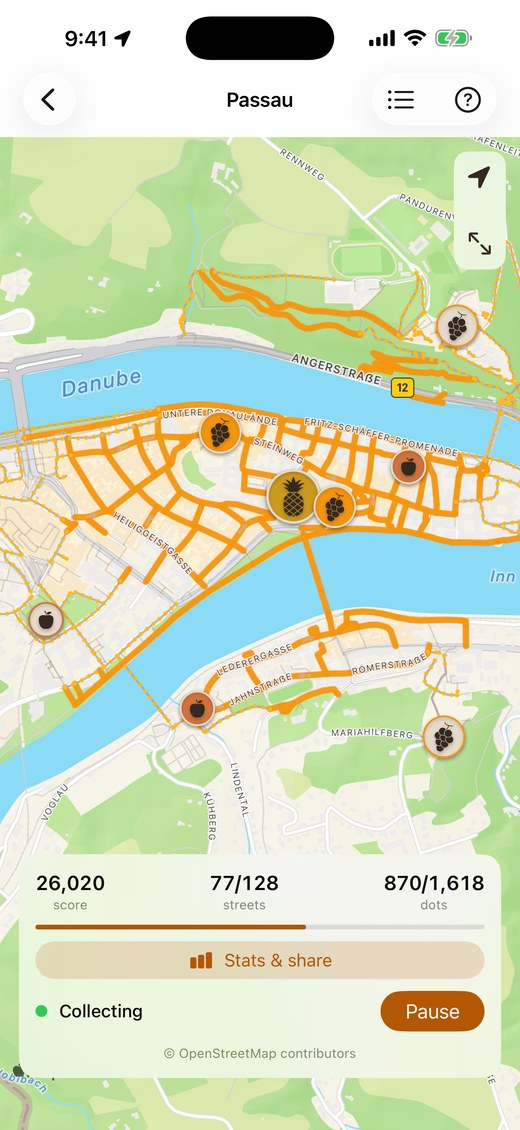
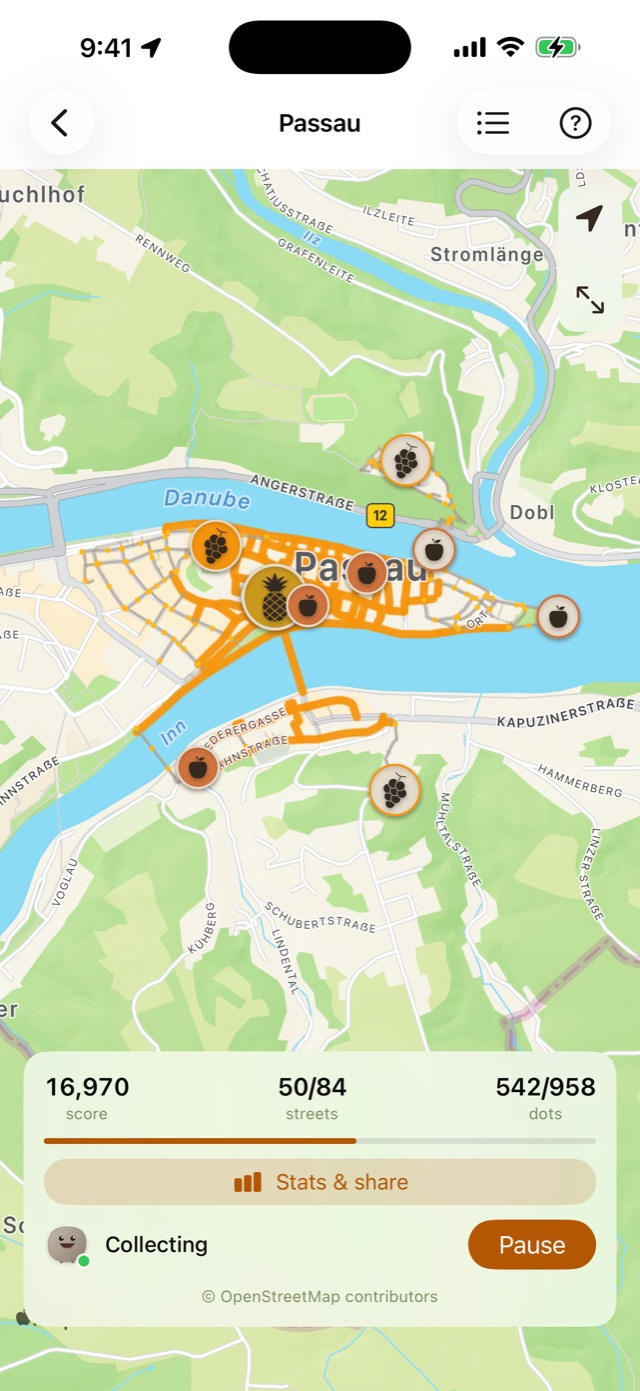
content: sync website

diff --git a/de/press.html b/de/press.html
@@ -96,11 +96,13 @@
 
       <h2>Screenshots</h2>
       <p>Auf dem iPhone aufgenommen. Das Schlüsselbild ist die bemalte Karte — eine Altstadt, die sich beim
-        Gehen golden füllt. Höher aufgelöste und deutschsprachige Versionen auf Anfrage.</p>
-      <div class="grid g-3" style="margin:1.2rem 0">
-        <figure class="mb0"><img src="/assets/img/shots/hero.jpg" alt="Die bemalte Karte: Passaus Altstadt mit golden verschlungenen Gassen." style="border-radius:12px;border:1px solid var(--line)"><figcaption class="meta-line" style="margin-top:.4rem">Die bemalte Karte</figcaption></figure>
-        <figure class="mb0"><img src="/assets/img/shots/headsup.jpg" alt="Eine Kopfsteinpflaster-Gasse, Handy in der Tasche, Kopfhörer im Ohr — Spielen mit erhobenem Kopf." style="border-radius:12px;border:1px solid var(--line)"><figcaption class="meta-line" style="margin-top:.4rem">Kopf-hoch-Spiel</figcaption></figure>
-        <figure class="mb0"><img src="/assets/img/shots/privacy.jpg" alt="Die Vertrauens-Karte in der App: Keine Daten erfasst, läuft offline." style="border-radius:12px;border:1px solid var(--line)"><figcaption class="meta-line" style="margin-top:.4rem">Keine Daten erfasst</figcaption></figure>
+        Gehen golden füllt. Der Sperrbildschirm zeigt, wie das Spiel wirklich gespielt wird: Handy in der
+        Tasche, Kopfhörer im Ohr. Höher aufgelöste Versionen auf Anfrage.</p>
+      <div class="grid g-2" style="margin:1.2rem 0">
+        <figure class="mb0"><img src="/assets/img/shots/hero-de.jpg" alt="Die bemalte Karte: Passaus Altstadt mit golden verschlungenen Gassen." style="border-radius:12px;border:1px solid var(--line)"><figcaption class="meta-line" style="margin-top:.4rem">Die bemalte Karte</figcaption></figure>
+        <figure class="mb0"><img src="/assets/img/shots/lockscreen-de.jpg" alt="Der Sperrbildschirm zeigt den Fortschritt, w&auml;hrend das Handy in der Tasche bleibt." style="border-radius:12px;border:1px solid var(--line)"><figcaption class="meta-line" style="margin-top:.4rem">Kopf-hoch-Spiel</figcaption></figure>
+        <figure class="mb0"><img src="/assets/img/shots/story-de.jpg" alt="Eine Fr&uuml;chte-Karte zum Passauer Dom, mit der l&auml;ngeren Geschichte aufgeklappt." style="border-radius:12px;border:1px solid var(--line)"><figcaption class="meta-line" style="margin-top:.4rem">Die Geschichte eines Wahrzeichens</figcaption></figure>
+        <figure class="mb0"><img src="/assets/img/shots/sharecard-de.jpg" alt="Die Teilen-Karte: eine goldene Spur der gelaufenen Gassen, mit dem Wappen der Stadt." style="border-radius:12px;border:1px solid var(--line)"><figcaption class="meta-line" style="margin-top:.4rem">Die Teilen-Karte</figcaption></figure>
       </div>
 
       <h2>Markenmaterial</h2>

diff --git a/press.html b/press.html
@@ -96,11 +96,13 @@
 
       <h2>Screenshots</h2>
       <p>Captured on iPhone. The money shot is the painted map — an Old Town filling in gold as it's
-        walked. Higher-resolution and German-locale versions on request.</p>
-      <div class="grid g-3" style="margin:1.2rem 0">
-        <figure class="mb0"><img src="/assets/img/shots/hero.jpg" alt="The painted map: Passau's Old Town with streets eaten gold." style="border-radius:12px;border:1px solid var(--line)"><figcaption class="meta-line" style="margin-top:.4rem">The painted map</figcaption></figure>
-        <figure class="mb0"><img src="/assets/img/shots/headsup.jpg" alt="A cobbled lane with the phone pocketed and earbuds in — heads-up play." style="border-radius:12px;border:1px solid var(--line)"><figcaption class="meta-line" style="margin-top:.4rem">Heads-up play</figcaption></figure>
-        <figure class="mb0"><img src="/assets/img/shots/privacy.jpg" alt="The in-app trust card: Data Not Collected, works offline." style="border-radius:12px;border:1px solid var(--line)"><figcaption class="meta-line" style="margin-top:.4rem">Data Not Collected</figcaption></figure>
+        walked. The lock screen is how the game is actually played: phone pocketed, earbuds in.
+        Higher-resolution versions on request.</p>
+      <div class="grid g-2" style="margin:1.2rem 0">
+        <figure class="mb0"><img src="/assets/img/shots/hero.jpg" alt="The painted map: Passau&#39;s Old Town with streets eaten gold." style="border-radius:12px;border:1px solid var(--line)"><figcaption class="meta-line" style="margin-top:.4rem">The painted map</figcaption></figure>
+        <figure class="mb0"><img src="/assets/img/shots/lockscreen.jpg" alt="The lock screen showing live progress while the phone stays pocketed." style="border-radius:12px;border:1px solid var(--line)"><figcaption class="meta-line" style="margin-top:.4rem">Heads-up play</figcaption></figure>
+        <figure class="mb0"><img src="/assets/img/shots/story.jpg" alt="A fruit story card for Passau&#39;s cathedral, with the longer story open." style="border-radius:12px;border:1px solid var(--line)"><figcaption class="meta-line" style="margin-top:.4rem">A landmark&#39;s story</figcaption></figure>
+        <figure class="mb0"><img src="/assets/img/shots/sharecard.jpg" alt="The share card: a gold trace of the streets walked, with the city&#39;s coat of arms." style="border-radius:12px;border:1px solid var(--line)"><figcaption class="meta-line" style="margin-top:.4rem">The share card</figcaption></figure>
       </div>
 
       <h2>Brand assets</h2>

diff --git a/assets/styles.css b/assets/styles.css
@@ -176,6 +176,7 @@ section{padding-block:clamp(56px,8vw,104px)}
 .g-2{grid-template-columns:repeat(2,1fr)} .g-3{grid-template-columns:repeat(3,1fr)}
 @media (max-width:820px){ .g-3{grid-template-columns:1fr 1fr} }
 @media (max-width:560px){ .g-2,.g-3{grid-template-columns:1fr} }
+.grid figure{margin:0}
 .card{background:var(--card); border:1px solid var(--line); border-radius:18px;
   padding:clamp(20px,2.4vw,30px); box-shadow:0 14px 30px -24px var(--shadow)}
 .card h3{margin-top:0}
